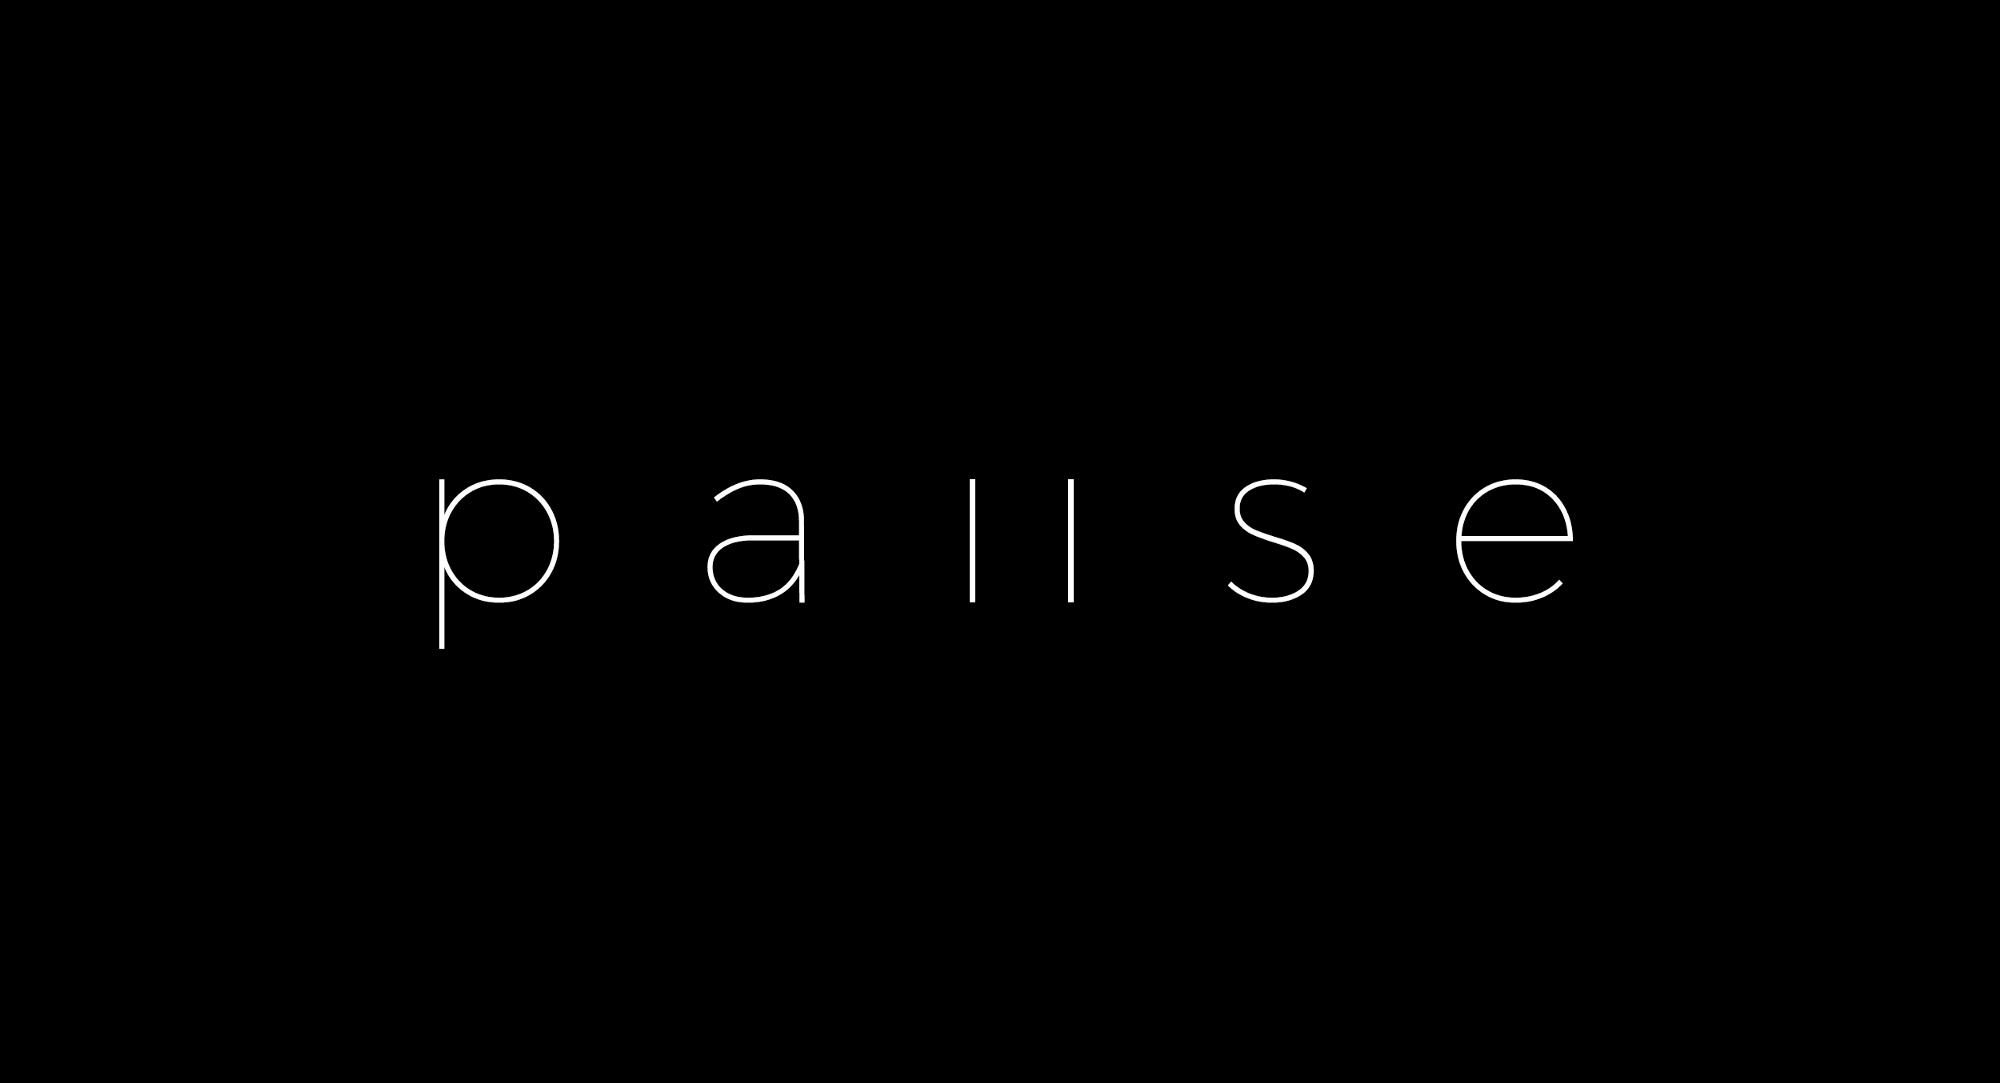
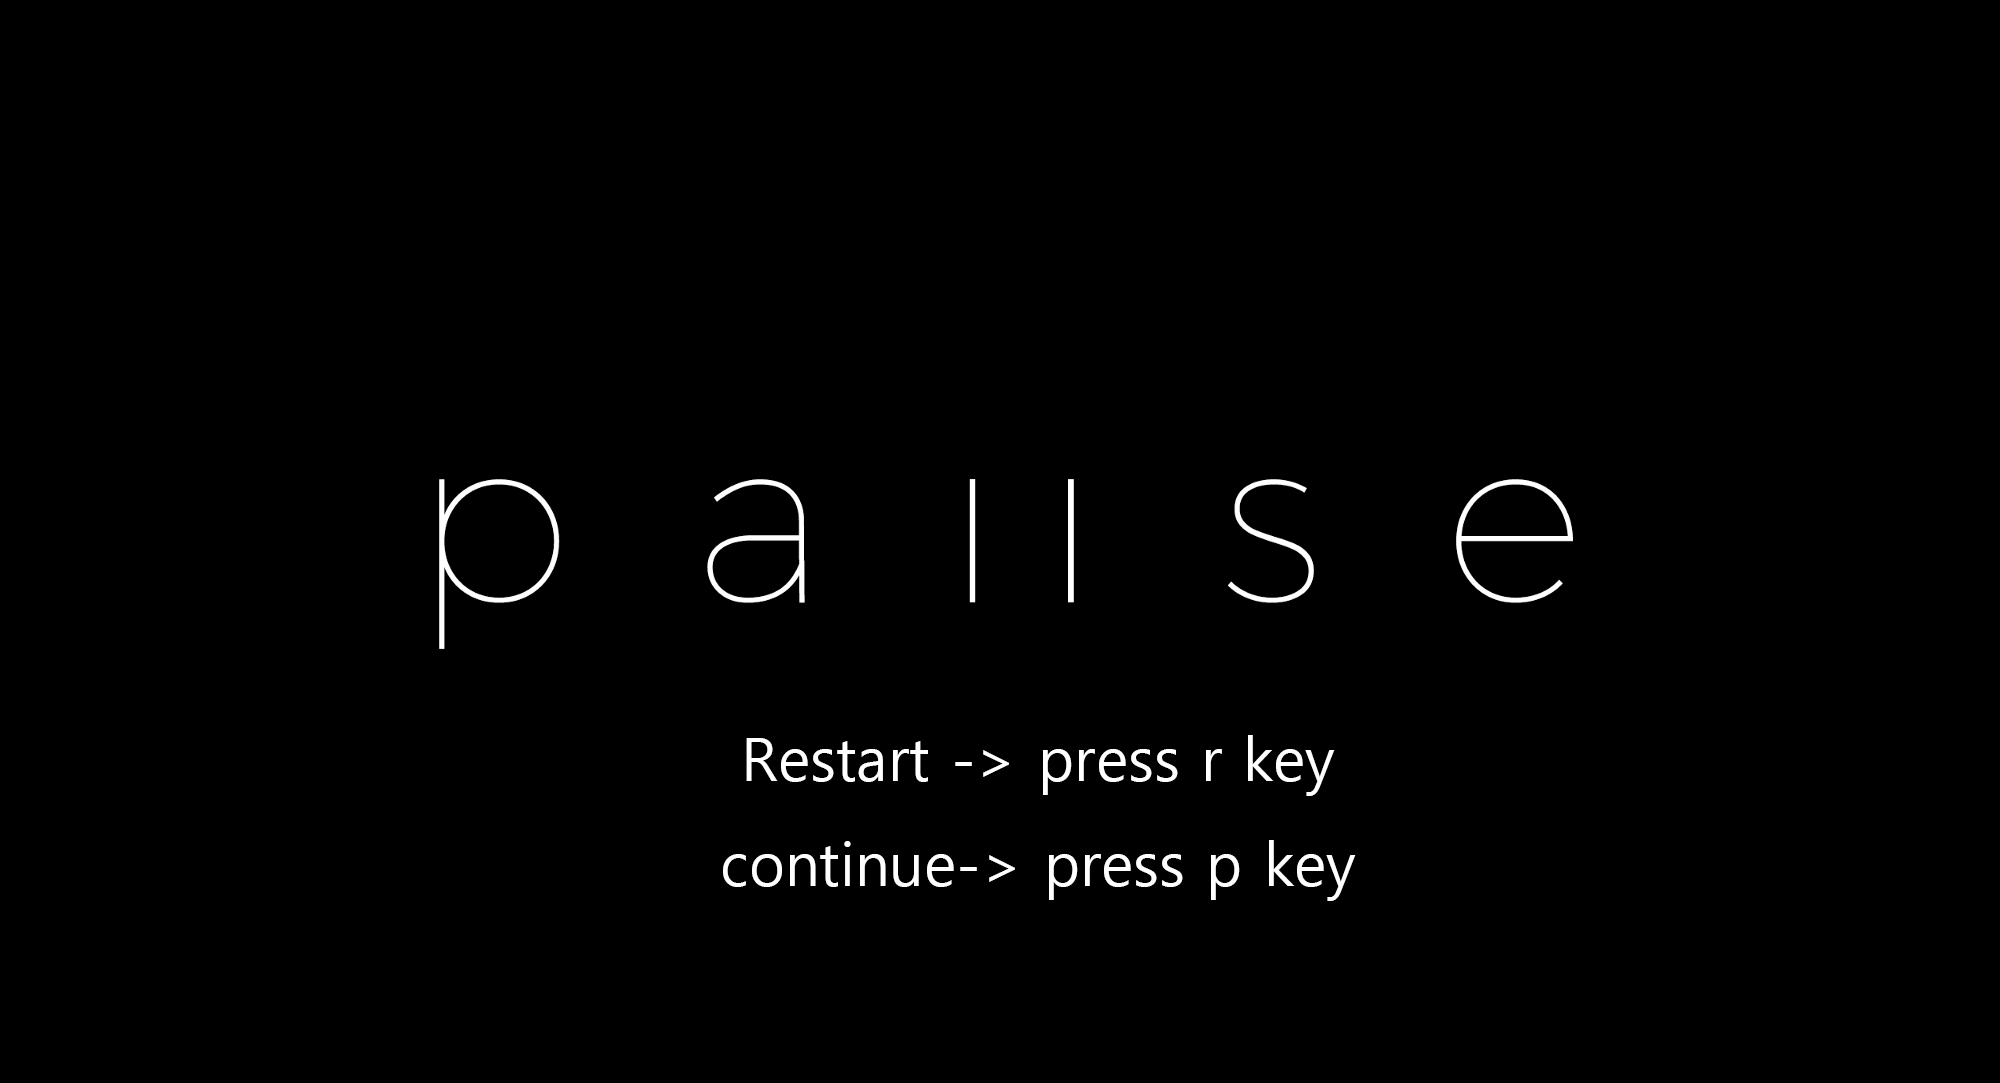
게임 재시작 구현

diff --git a/2D게임/pause_state.py b/2D게임/pause_state.py
@@ -1,10 +1,12 @@
 import game_framework
+import game_world
 from pico2d import *
 import title_state
 import main_state
 name = "PauseState"
 image = None
 logo_time = 10
+
 
 
 def enter():
@@ -50,8 +52,11 @@ def handle_events():
             game_framework.quit()
         else:
             if(event.type, event.key) == (SDL_KEYDOWN, SDLK_p):
-                game_framework.pop_state()
+                tmp = main_state.output_grass()
+                if tmp.castle_hp >= 0:
+                    game_framework.pop_state()
             elif (event.type, event.key) == (SDL_KEYDOWN, SDLK_r):
+                game_world.clear()
                 game_framework.change_state(main_state)
 
 

diff --git a/2D게임/game_world.py b/2D게임/game_world.py
@@ -3,6 +3,7 @@
 # layer 1: Foreground Objects
 # layer 2: bullet Objects
 # layer 3: monster Objects
+
 objects = [[], [], [], []]
 
 
@@ -32,7 +33,8 @@ def Return_layer3_obj():
 def clear():
     for o in all_objects():
         del o
-    objects.clear()
+    global objects
+    objects = [[],[],[],[]]
 
 
 def all_objects():

diff --git a/2D게임/main_state.py b/2D게임/main_state.py
@@ -31,6 +31,9 @@ Monster_Spawn_time = 0
 
 SlimeHp = 10
 
+def output_grass():
+    return grass
+
 def collide(a, b):
     left_a, bottom_a, right_a, top_a = a.get_bb()
     left_b, bottom_b, right_b, top_b = b.get_bb()
